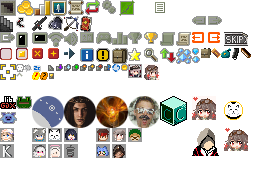
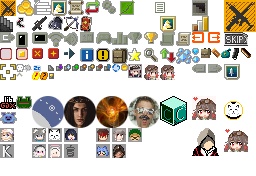
主界面图标调整 & 更新记录文案优化

diff --git a/core/src/main/java/com/shatteredpixel/shatteredpixeldungeon/ui/changelist/girlpd/v0_5_X_Changes.java b/core/src/main/java/com/shatteredpixel/shatteredpixeldungeon/ui/changelist/girlpd/v0_5_X_Changes.java
@@ -41,21 +41,21 @@ public class v0_5_X_Changes {
 		changeInfos.add(changes);
 
 		changes.addButton(new ChangeButton(new Image(Assets.Sprites.SPINNER, 144, 0, 16, 16), Messages.get(ChangesScene.class, "bugfixes"),
-			"现在鼠王护甲能正常使用了，561也可以使用鼠王护甲\n"+
-			"修改了铁匠贴图\n"+
-			"更改了恶魔血巢的显示偏移，现在视觉上不会阻挡其他怪物了\n"+
-			"修复了G11傀儡攻击崩溃bug\n"+
-			"修复了骷髅文本错误问题\n"+
-			"修复了vector冲锋枪buff未生效的问题\n"+
-			"修复了元素风暴不能使用的问题\n"+
-			"修复了法杖(子弹)鉴定时的文本\n"+
-			"修复了部分文本问题\n"+
-			"删除了G11，将其功能合并到magesstaff，修复了”法杖回收“天赋不能正常发挥作用的问题\n"+
-			"调整了坠落音效的音量大小为原来的2/3\n"+
-			"修复了G11的装弹强化天赋不能正常触发的bug，同时调小了死亡音效的音量\n"+
-			"修复了561饭是钢天赋不能正常触发的问题\n"+
-			"现在鼠王护甲能正常使用了，561也可以使用鼠王护甲了\n"+
-			"修复了护卫者无限掉落血瓶的问题\n"
+		"_-_ 现在鼠王护甲能正常使用了，561也可以使用鼠王护甲\n"+
+				"_-_ 修改了Ppsh-47的贴图\n"+
+				"_-_ 更改了侦查中枢的显示偏移，现在视觉上不会阻挡其他怪物了\n"+
+				"_-_ 修复了G11 虹卫，镜像 攻击崩溃的bug\n"+
+				"_-_ 修复了骷髅文本错误问题\n"+
+				"_-_ 修复了Vector冲锋枪buff未生效的问题\n"+
+				"_-_ 修复了元素风暴不能使用的问题\n"+
+				"_-_ 修复了法杖(子弹)鉴定时的文本\n"+
+				"_-_ 修复了部分文本问题\n"+
+				"_-_ 删除了G11，将其功能合并到magesstaff，修复了”法杖回收“天赋不能正常发挥作用的问题\n"+
+				"_-_ 调整了坠落音效的音量大小为原来的2/3\n"+
+				"_-_ 修复了G11的装弹强化天赋不能正常触发的bug，同时调小了死亡音效的音量\n"+
+				"_-_ 修复了561饭是钢天赋不能正常触发的问题\n"+
+				"_-_ 现在鼠王护甲能正常使用了，561也可以使用鼠王护甲了\n"+
+				"_-_ 修复了护卫者无限掉落血瓶的问题，现在上限为5"
 		));
 	};
 

diff --git a/core/src/main/java/com/shatteredpixel/shatteredpixeldungeon/ui/Icons.java b/core/src/main/java/com/shatteredpixel/shatteredpixeldungeon/ui/Icons.java
@@ -154,7 +154,7 @@ public enum Icons {
 				icon.frame( icon.texture.uvRectBySize( 17, 0, 17, 16 ) );
 				break;
 			case RANKINGS:
-				icon.frame( icon.texture.uvRectBySize( 34, 0, 17, 16 ) );
+				icon.frame( icon.texture.uvRectBySize( 34, 0, 17, 15 ) );
 				break;
 			case BADGES:
 				icon.frame( icon.texture.uvRectBySize( 51, 0, 16, 16 ) );
